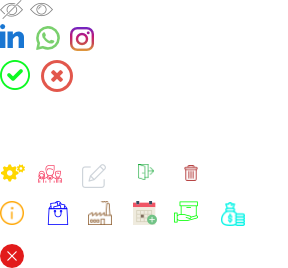
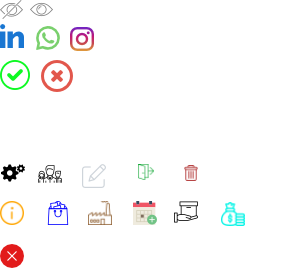
projeto parte 2

Changed region(s): [[0.5938, 0.7463, 0.6875, 0.8358], [0.0, 0.597, 0.0938, 0.6866], [0.125, 0.597, 0.2188, 0.6866]]

diff --git a/view/js/maskmoney.js b/view/js/maskmoney.js
@@ -1,0 +1,10 @@
+/*
+ *  jquery-maskmoney - v3.1.1
+ *  jQuery plugin to mask data entry in the input text in the form of money (currency)
+ *  https://github.com/plentz/jquery-maskmoney
+ *
+ *  Made by Diego Plentz
+ *  Under MIT License
+ */
+
+!function($){"use strict";function e(e,t){var n="";return e.indexOf("-")>-1&&(e=e.replace("-",""),n="-"),e.indexOf(t.prefix)>-1&&(e=e.replace(t.prefix,"")),e.indexOf(t.suffix)>-1&&(e=e.replace(t.suffix,"")),n+t.prefix+e+t.suffix}function t(e,t){return t.allowEmpty&&""===e?"":t.reverse?a(e,t):n(e,t)}function n(t,n){var a,i,o,l=t.indexOf("-")>-1&&n.allowNegative?"-":"",s=t.replace(/[^0-9]/g,"");return a=r(s.slice(0,s.length-n.precision),l,n),n.precision>0&&(i=s.slice(s.length-n.precision),o=new Array(n.precision+1-i.length).join(0),a+=n.decimal+o+i),e(a,n)}function a(t,n){var a,i=t.indexOf("-")>-1&&n.allowNegative?"-":"",o=t.replace(n.prefix,"").replace(n.suffix,""),l=o.split(n.decimal)[0],s="";if(""===l&&(l="0"),a=r(l,i,n),n.precision>0){var c=o.split(n.decimal);c.length>1&&(s=c[1]),a+=n.decimal+s;var u=Number.parseFloat(l+"."+s).toFixed(n.precision).toString().split(n.decimal)[1];a=a.split(n.decimal)[0]+"."+u}return e(a,n)}function r(e,t,n){return e=e.replace(/^0*/g,""),""===(e=e.replace(/\B(?=(\d{3})+(?!\d))/g,n.thousands))&&(e="0"),t+e}$.browser||($.browser={},$.browser.mozilla=/mozilla/.test(navigator.userAgent.toLowerCase())&&!/webkit/.test(navigator.userAgent.toLowerCase()),$.browser.webkit=/webkit/.test(navigator.userAgent.toLowerCase()),$.browser.opera=/opera/.test(navigator.userAgent.toLowerCase()),$.browser.msie=/msie/.test(navigator.userAgent.toLowerCase()),$.browser.device=/android|webos|iphone|ipad|ipod|blackberry|iemobile|opera mini/i.test(navigator.userAgent.toLowerCase()));var i={prefix:"",suffix:"",affixesStay:!0,thousands:",",decimal:".",precision:2,allowZero:!1,allowNegative:!1,doubleClickSelection:!0,allowEmpty:!1,bringCaretAtEndOnFocus:!0},o={destroy:function(){return $(this).unbind(".maskMoney"),$.browser.msie&&(this.onpaste=null),this},applyMask:function(e){return t(e,$(this).data("settings"))},mask:function(e){return this.each(function(){var t=$(this);return"number"==typeof e&&t.val(e),t.trigger("mask")})},unmasked:function(){return this.map(function(){var e,t=$(this).val()||"0",n=-1!==t.indexOf("-");return $(t.split(/\D/).reverse()).each(function(t,n){if(n)return e=n,!1}),t=t.replace(/\D/g,""),t=t.replace(new RegExp(e+"$"),"."+e),n&&(t="-"+t),parseFloat(t)})},unmaskedWithOptions:function(){return this.map(function(){var e=$(this).val()||"0",t=$(this).data("settings")||i,n=new RegExp(t.thousandsForUnmasked||t.thousands,"g");return e=e.replace(n,""),parseFloat(e)})},init:function(n){return n=$.extend($.extend({},i),n),this.each(function(){function a(){var e,t,n,a,r,i=x.get(0),o=0,l=0;return"number"==typeof i.selectionStart&&"number"==typeof i.selectionEnd?(o=i.selectionStart,l=i.selectionEnd):(t=document.selection.createRange())&&t.parentElement()===i&&(a=i.value.length,e=i.value.replace(/\r\n/g,"\n"),(n=i.createTextRange()).moveToBookmark(t.getBookmark()),(r=i.createTextRange()).collapse(!1),n.compareEndPoints("StartToEnd",r)>-1?o=l=a:(o=-n.moveStart("character",-a),o+=e.slice(0,o).split("\n").length-1,n.compareEndPoints("EndToEnd",r)>-1?l=a:(l=-n.moveEnd("character",-a),l+=e.slice(0,l).split("\n").length-1))),{start:o,end:l}}function r(){var e=!(x.val().length>=x.attr("maxlength")&&x.attr("maxlength")>=0),t=a(),n=t.start,r=t.end,i=!(t.start===t.end||!x.val().substring(n,r).match(/\d/)),o="0"===x.val().substring(0,1);return e||i||o}function i(e){w.formatOnBlur||x.each(function(t,n){if(n.setSelectionRange)n.focus(),n.setSelectionRange(e,e);else if(n.createTextRange){var a=n.createTextRange();a.collapse(!0),a.moveEnd("character",e),a.moveStart("character",e),a.select()}})}function o(e){var n,a=x.val().length;x.val(t(x.val(),w)),n=x.val().length,w.reverse||(e-=a-n),i(e)}function l(){var e=x.val();if(!w.allowEmpty||""!==e){var n=e.indexOf(w.decimal);if(w.precision>0)if(n<0)e+=w.decimal+new Array(w.precision+1).join(0);else{var a=e.slice(0,n),r=e.slice(n+1);e=a+w.decimal+r+new Array(w.precision+1-r.length).join(0)}else n>0&&(e=e.slice(0,n));x.val(t(e,w))}}function s(){var e=x.val();return w.allowNegative?""!==e&&"-"===e.charAt(0)?e.replace("-",""):"-"+e:e}function c(e){e.preventDefault?e.preventDefault():e.returnValue=!1}function u(e){var t=(e=e||window.event).which||e.charCode||e.keyCode,n=w.decimal.charCodeAt(0);return void 0!==t&&(!(t<48||t>57)||t===n&&w.reverse?!!r()&&((t!==n||!d())&&(!!w.formatOnBlur||(c(e),p(e),!1))):g(t,e))}function d(){return!v()&&f()}function v(){var e=x.val().length,t=a();return 0===t.start&&t.end===e}function f(){return x.val().indexOf(w.decimal)>-1}function p(e){var t,n,r,i,l=(e=e||window.event).which||e.charCode||e.keyCode,s="";l>=48&&l<=57&&(s=String.fromCharCode(l)),n=(t=a()).start,r=t.end,i=x.val(),x.val(i.substring(0,n)+s+i.substring(r,i.length)),o(n+1)}function g(e,t){return 45===e?(x.val(s()),!1):43===e?(x.val(x.val().replace("-","")),!1):13===e||9===e||(!(!$.browser.mozilla||37!==e&&39!==e||0!==t.charCode)||(c(t),!0))}function m(){setTimeout(function(){l()},0)}function h(){return(parseFloat("0")/Math.pow(10,w.precision)).toFixed(w.precision).replace(new RegExp("\\.","g"),w.decimal)}var w,b,x=$(this);w=$.extend({},n),w=$.extend(w,x.data()),x.data("settings",w),$.browser.device&&x.attr("type","tel"),x.unbind(".maskMoney"),x.bind("keypress.maskMoney",u),x.bind("keydown.maskMoney",function(e){var t,n,r,i,l,s=(e=e||window.event).which||e.charCode||e.keyCode;return void 0!==s&&(t=a(),n=t.start,r=t.end,8!==s&&46!==s&&63272!==s||(c(e),i=x.val(),n===r&&(8===s?""===w.suffix?n-=1:(l=i.split("").reverse().join("").search(/\d/),r=1+(n=i.length-l-1)):r+=1),x.val(i.substring(0,n)+i.substring(r,i.length)),o(n),!1))}),x.bind("blur.maskMoney",function(t){if($.browser.msie&&u(t),w.formatOnBlur&&x.val()!==b&&p(t),""===x.val()&&w.allowEmpty)x.val("");else if(""===x.val()||x.val()===e(h(),w))w.allowZero?w.affixesStay?x.val(e(h(),w)):x.val(h()):x.val("");else if(!w.affixesStay){var n=x.val().replace(w.prefix,"").replace(w.suffix,"");x.val(n)}x.val()!==b&&x.change()}),x.bind("focus.maskMoney",function(){b=x.val(),l();var e,t=x.get(0);w.selectAllOnFocus?t.select():t.createTextRange&&w.bringCaretAtEndOnFocus&&((e=t.createTextRange()).collapse(!1),e.select())}),x.bind("click.maskMoney",function(){var e,t=x.get(0);w.selectAllOnFocus||(t.setSelectionRange&&w.bringCaretAtEndOnFocus?(e=x.val().length,t.setSelectionRange(e,e)):x.val(x.val()))}),x.bind("dblclick.maskMoney",function(){var e,t,n=x.get(0);n.setSelectionRange&&w.bringCaretAtEndOnFocus?(t=x.val().length,e=w.doubleClickSelection?0:t,n.setSelectionRange(e,t)):x.val(x.val())}),x.bind("cut.maskMoney",m),x.bind("paste.maskMoney",m),x.bind("mask.maskMoney",l)})}};$.fn.maskMoney=function(e){return o[e]?o[e].apply(this,Array.prototype.slice.call(arguments,1)):"object"!=typeof e&&e?void $.error("Method "+e+" does not exist on jQuery.maskMoney"):o.init.apply(this,arguments)}}(window.jQuery||window.Zepto);

diff --git a/view/css/style.css b/view/css/style.css
@@ -137,6 +137,7 @@ span.erro span:before{
 .navbar-horizontal .navbar-nav .nav-link .nav-link-inner--text{font-family: 'Montserrat-Bold';font-size: 14px}
 p.texto{font-family: 'Roboto-Regular';font-size: 14px}
 .navbar-vertical.navbar-expand-md .navbar-nav .nav-link{font-weight: bold;}
+.icon-shape{background-color: #000;}
 .icon-shape.acesso{background-position: 9px -115px;}
 .icon-shape.empresa{background-position: -75px -114px;}
 .icon-shape.produtos{background-position: -167px -114px;}

diff --git a/view/js/index.js b/view/js/index.js
@@ -41,7 +41,6 @@ $(document).ready(function () {
                             senha: form.find('input#senha').val()
                         },
                         success: function (resposta) {
-                            console.log(resposta.retorno);
                             if (resposta.retorno == true) {
                                 window.location.href = url_padrao + '/home'
                             } else if (resposta == 2) {

diff --git a/controller/class.transferencia.php b/controller/class.transferencia.php
@@ -18,12 +18,20 @@ class Transferencia extends ModelTransferencia
     public function PostSubmit($acao){
         switch ($acao){
             case 'incluir':
-                if ($this->incluirRegistros()){
-                    header("Location: " . URL_SITE . '/'.$this->pagina.'?id='.$_GET['id'].'&msg=ok');
-                }else{
-                    header("Location: " . URL_SITE . '/'.$this->pagina.'?id='.$_GET['id'].'msg=erro');
+                $retorno = $this->incluirRegistros();
+                exit(json_encode($retorno));
+            case 'verificaSaldo':
+
+                $formatarMoeda = str_replace(',', '.', str_replace('.', '', $this->get_registro('valor')));
+                $dinheiro = new Dinheiro();
+                $saldo = $dinheiro->saldoAtualizado($this->get_registro('id_usuario'));
+                if($formatarMoeda <= $saldo[0]->valor) {
+                    $retorno = array('retorno' => true);
+                    exit(json_encode($retorno));
+                } else {
+                    $retorno = array('retorno' => false);
+                    exit(json_encode($retorno));
                 }
-                break;
         }
     }
 
@@ -42,15 +50,94 @@ class Transferencia extends ModelTransferencia
      * Inserir registros
      * */
     public function incluirRegistros(){
-        date_default_timezone_set('America/Sao_Paulo');
-        $this->setData_hora(date('Y-m-d H:i:s'));
-        $this->setId_usuario_envia($this->get_registro('id_usuario_envia'));
-        $this->setId_usuario_recebe($this->get_registro('id_usuario_recebe'));
-        $this->setValor($this->get_registro('valor'));
-        $this->setStatus('A');
+        $dinheiro = new Dinheiro();
+        $usuario = new Usuario();
 
-        $retorno = parent::incluir();
+        $formatarMoeda = str_replace(',', '.', str_replace('.', '', $this->get_registro('valor')));
+        $saldo = $dinheiro->saldoAtualizado($this->get_registro('id_usuario'));
 
-        return $retorno;
+        //verifica se o usuário contém saldo para envio
+
+        if($formatarMoeda <= $saldo[0]->valor) {
+
+            $usuarioRecebe = $usuario->verificaUsuarioTransferencia($this->get_registro('email'));
+
+            if($usuarioRecebe) {
+
+                if($usuarioRecebe[0]->identificacao == $this->get_registro('cpf_cnpj')) {
+
+                    //inclui tranferencia
+                    date_default_timezone_set('America/Sao_Paulo');
+                    $this->setData_hora(date('Y-m-d H:i:s'));
+                    $this->setId_usuario_envia($this->get_registro('id_usuario'));
+                    $this->setId_usuario_recebe($usuarioRecebe[0]->id_usuario);
+                    $this->setValor($formatarMoeda);
+                    $this->setStatus('C');
+
+                    $idInserido = parent::incluir();
+
+                    if($idInserido) {
+                        $atualizaValorEnvia = $saldo[0]->valor - $formatarMoeda;
+                        //atualiza saldo de quem enviou
+                        $atualizaValorEnviaRetorno = $dinheiro->updateDinheiro($this->get_registro('id_usuario'),$atualizaValorEnvia);
+                        if($atualizaValorEnviaRetorno) {
+                            $atualizaValorRecebe =  $usuarioRecebe[0]->valor + $formatarMoeda;
+                            //atualiza saldo de quem recebe
+                            $atualizaValorEnviaRecebe = $dinheiro->updateDinheiro($usuarioRecebe[0]->id_usuario,$atualizaValorRecebe);
+                            if($atualizaValorEnviaRecebe) {
+                                $retorno = array(
+                                    'saldo' => true,
+                                    'retorno' => true,
+                                    'saldoAtualizado' => str_replace('.', ',', str_replace(',', '', $atualizaValorEnvia)),
+                                );
+                                return $retorno;
+                            } else {
+                                //volta valor antes de ter atualizado de quem enviou
+                                $dinheiro->updateDinheiro($this->get_registro('id_usuario'),$saldo[0]->valor);
+                                parent::deletar($idInserido,'transferencias');
+                                $retorno = array(
+                                    'saldo' => true,
+                                    'retorno' => false,
+                                );
+                                return $retorno;
+                            }
+                        }
+                        //caso algo de errado apaga transferencia;
+                        else{
+                            parent::deletar($idInserido,'transferencias');
+                            $retorno = array(
+                                'saldo' => true,
+                                'retorno' => false,
+                            );
+                            return $retorno;
+                        }
+                    } else{
+                        $retorno = array(
+                            'saldo' => true,
+                            'retorno' => false,
+                        );
+                        return $retorno;
+                    }
+                } else {
+                    $retorno = array(
+                        'saldo' => true,
+                        'retorno' => false,
+                    );
+                    return $retorno;
+                }
+            }else{
+                $retorno = array(
+                    'saldo' => true,
+                    'retorno' => false,
+                );
+                return $retorno;
+            }
+        } else {
+            $retorno = array(
+                'saldo' => false,
+                'retorno' => false,
+            );
+            return $retorno;
+        }
     }
 }

diff --git a/model/class.usuario.php b/model/class.usuario.php
@@ -185,4 +185,23 @@ class ModelUsuario extends sets
             return false;
         }
     }
+
+    /*
+     * author: Leonardo Cruz
+     * verifica se usuário existe para transferir o dinheiro na conta dele
+     * */
+    protected function verificaUsuarioTransferencia($email){
+        $sql = "SELECT DISTINCT u.*,CASE WHEN u.tipo_pessoa = 'J' THEN uj.cnpj ELSE uf.cpf END AS 'identificacao', ud.valor
+        FROM `".$this->table."` u
+        LEFT JOIN `".$this->table."_pessoa_fisica` uf ON u.`id_usuario` = uf.`id_usuario`
+        LEFT JOIN `".$this->table."_pessoa_juridica` uj ON u.`id_usuario` = uj.`id_usuario`
+        INNER JOIN `usuarios_dinheiro` ud ON u.`id_usuario` = ud.`id_usuario`
+        WHERE u.`email` = '". $email ."'";
+        $execute = conexao::toConnect()->executeS($sql);
+        if (count($execute) > 0) {
+            return $execute;
+        }else{
+            return false;
+        }
+    }
 }

diff --git a/model/class.dinheiro.php b/model/class.dinheiro.php
@@ -44,7 +44,22 @@ class ModelDinheiro extends sets
         $sql = "UPDATE ".$this->table." 
         SET  valor = '" . $valor . "'
         WHERE id_usuario = " . $idUsuario;
+
         $execute_into = conexao::toConnect()->executeQuery($sql);
+        if (count($execute_into) > 0) {
+            return $execute_into;
+        }else{
+            return false;
+        }
+    }
+
+    /*
+     * author: Leonardo Cruz
+     * Busca saldo atual
+     * */
+    protected function saldoAtualizado($idUsuario){
+        $sql = "SELECT * FROM " . $this->table . " WHERE id_usuario = " . $idUsuario;
+        $execute_into = conexao::toConnect()->executeS($sql);
         if (count($execute_into) > 0) {
             return $execute_into;
         }else{

diff --git a/controller/class.dinheiro.php b/controller/class.dinheiro.php
@@ -24,4 +24,9 @@ class Dinheiro extends ModelDinheiro
     {
         return parent::updateDinheiro($idUsuario, $valor);
     }
+
+    public function saldoAtualizado($idUsuario)
+    {
+        return parent::saldoAtualizado($idUsuario);
+    }
 }

diff --git a/controller/class.usuario.php b/controller/class.usuario.php
@@ -206,4 +206,9 @@ class Usuario extends ModelUsuario
             exit('2');
         }
     }
+
+    public function verificaUsuarioTransferencia($email)
+    {
+        return parent::verificaUsuarioTransferencia($email);
+    }
 }
